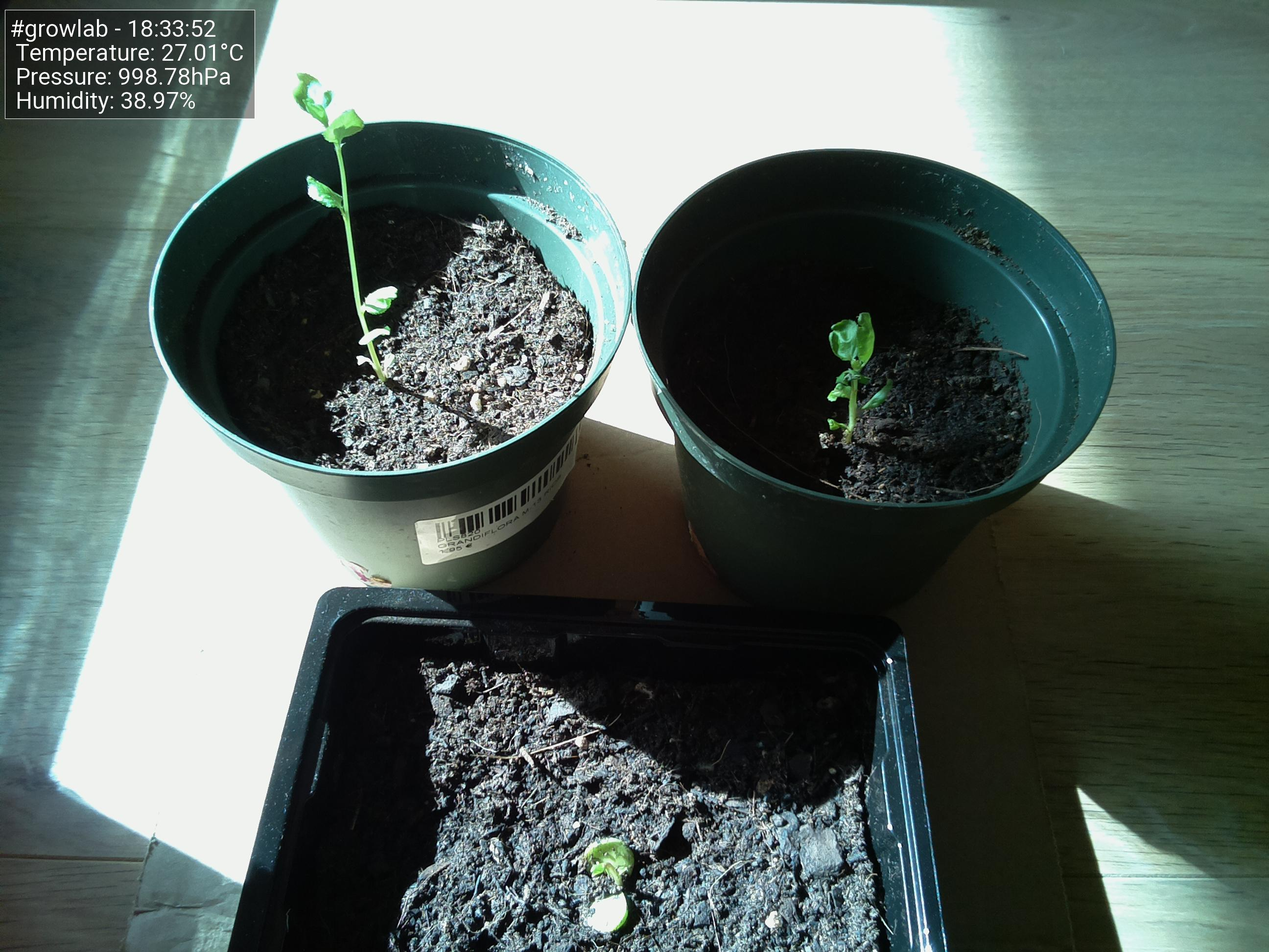
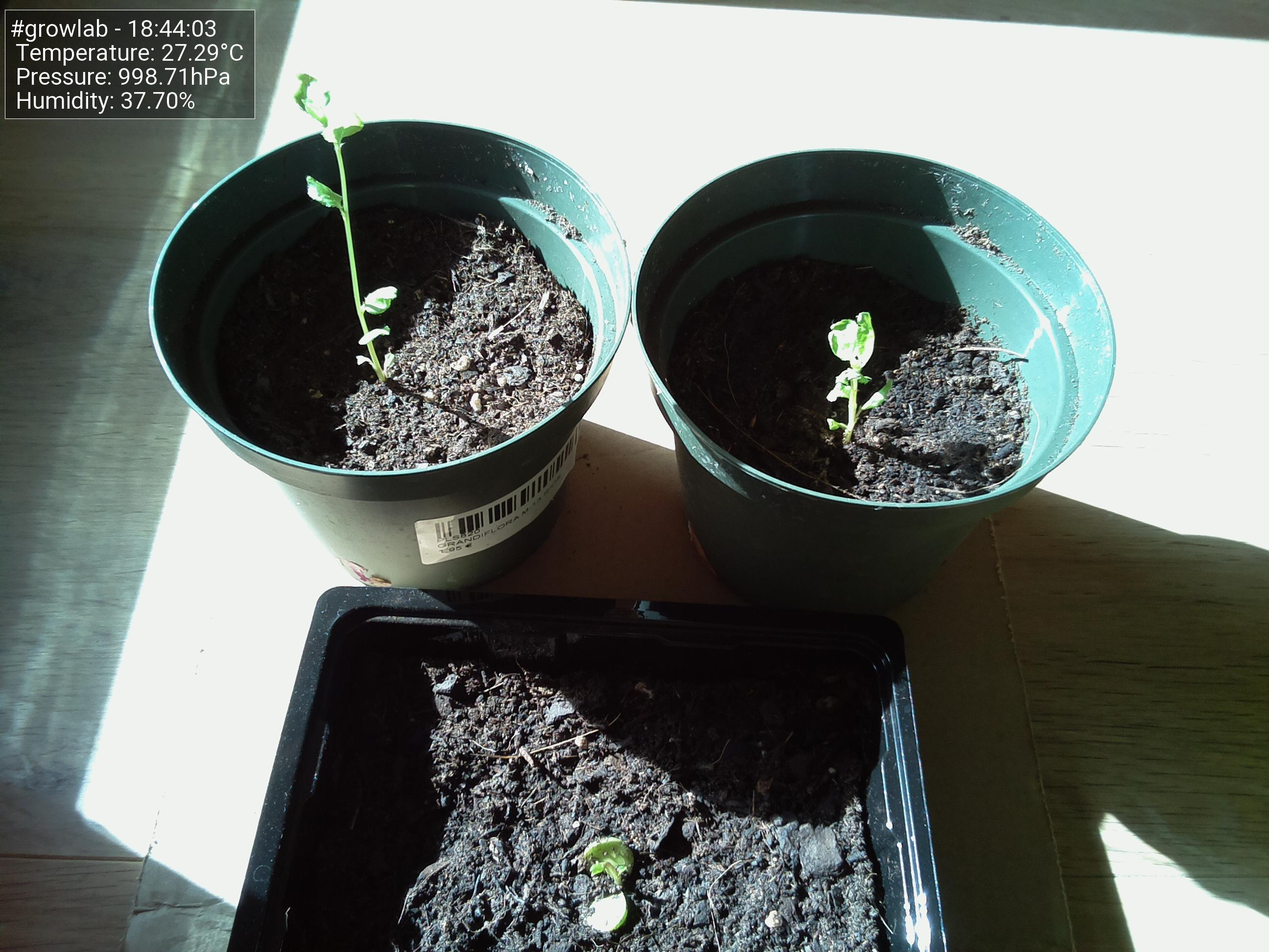
Update images at Mon 14 Jun 18:44:08 CEST 2021

diff --git a/docs/index.html b/docs/index.html
@@ -47,19 +47,19 @@
                         <tbody>
                             <tr>
                                 <td>Time</td>
-                                <td>18:33:52</td>
+                                <td>18:44:03</td>
                             </tr>
                             <tr>
                                 <td>Temperature</td>
-                                <td>27.01°C</td>
+                                <td>27.29°C</td>
                             </tr>
                             <tr>
                                 <td>Humidity</td>
-                                <td>38.97%</td>
+                                <td>37.70%</td>
                             </tr>
                             <tr>
                                 <td>Pressure</td>
-                                <td>998.78hPa</td>
+                                <td>998.71hPa</td>
                             </tr>
                         </tbody>
                     </table>
@@ -67,7 +67,7 @@
 
                 <h5>Latest image</h5>
                 <div style="width: 85%;">
-                            <img class="figure-img img-fluid rounded" src="./preview.jpg?uid=1623688436.301389">
+                            <img class="figure-img img-fluid rounded" src="./preview.jpg?uid=1623689047.926302">
                 </div>
             </div>
         </div>
